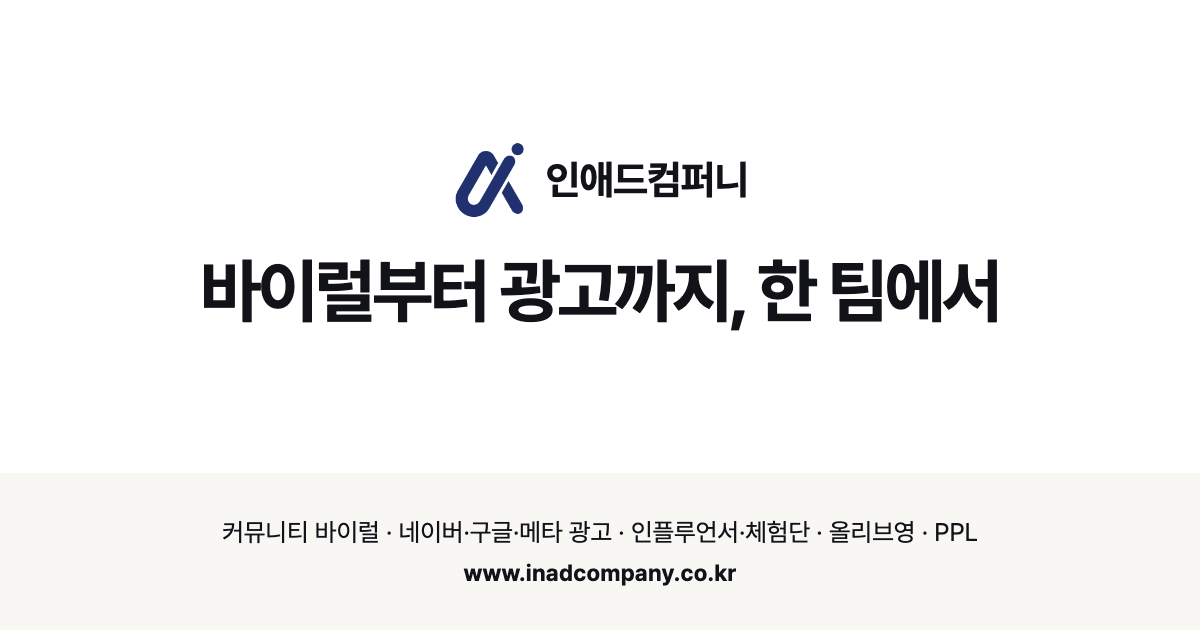
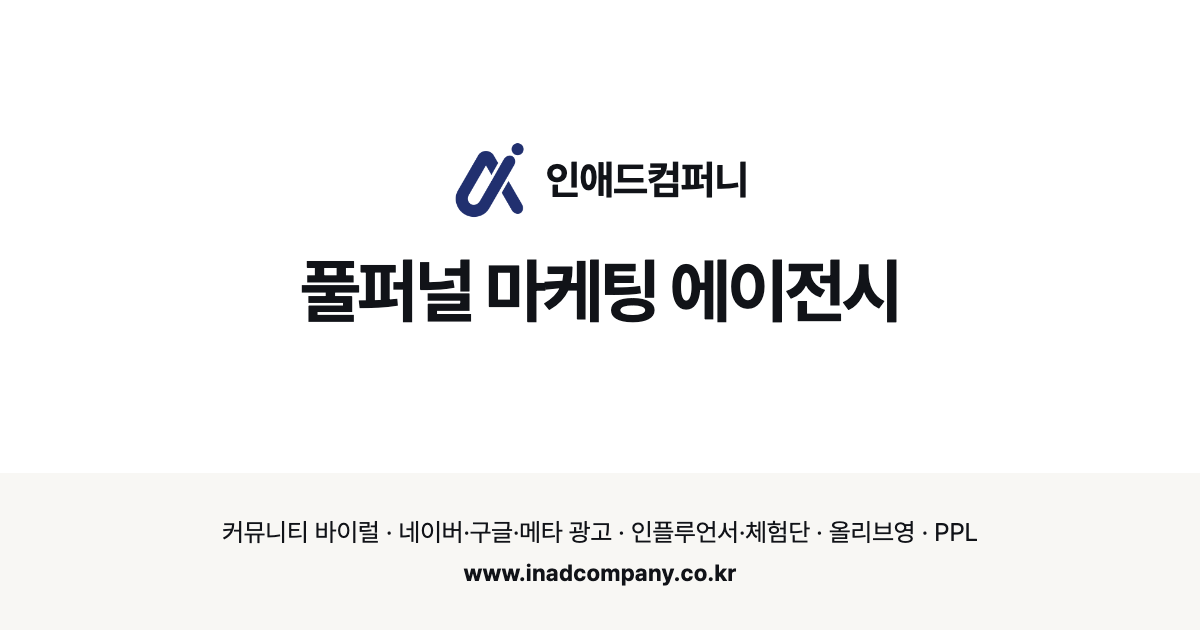
링크 공유 문구 변경: 그림 제목 '풀퍼널 마케팅 에이전시', 홈 제목 '브랜드마케팅 에이스팀'
- public/static/og-image.png: 큰 제목을 '풀퍼널 마케팅 에이전시'로 교체 (1200x630)
- src/index.tsx: 홈 title을 '풀퍼널 마케팅 에이전시 - 브랜드마케팅 에이스팀'으로 변경
  (renderer가 ' | 인애드컴퍼니'를 붙여 <title>/og:title/twitter:title 모두 반영)

Changed region(s): [[0.1542, 0.3921, 0.8325, 0.5127]]

diff --git a/src/index.tsx b/src/index.tsx
@@ -130,7 +130,7 @@ Sitemap: https://www.inadcompany.co.kr/sitemap.xml`
 // Routes
 app.get('/', (c) => {
   return c.render(<HomePage />, {
-    title: '풀퍼널 마케팅 에이전시 - 바이럴부터 광고까지 한 팀에서',
+    title: '풀퍼널 마케팅 에이전시 - 브랜드마케팅 에이스팀',
     description: '바이럴과 광고를 한 팀이 같이 운영하는 풀퍼널 마케팅 에이전시입니다. 커뮤니티 바이럴, 네이버·구글·메타 광고, 인플루언서·체험단, 올리브영, PPL까지 맡길 수 있습니다.',
     canonical: 'https://www.inadcompany.co.kr',
     schema: JSON.stringify({
